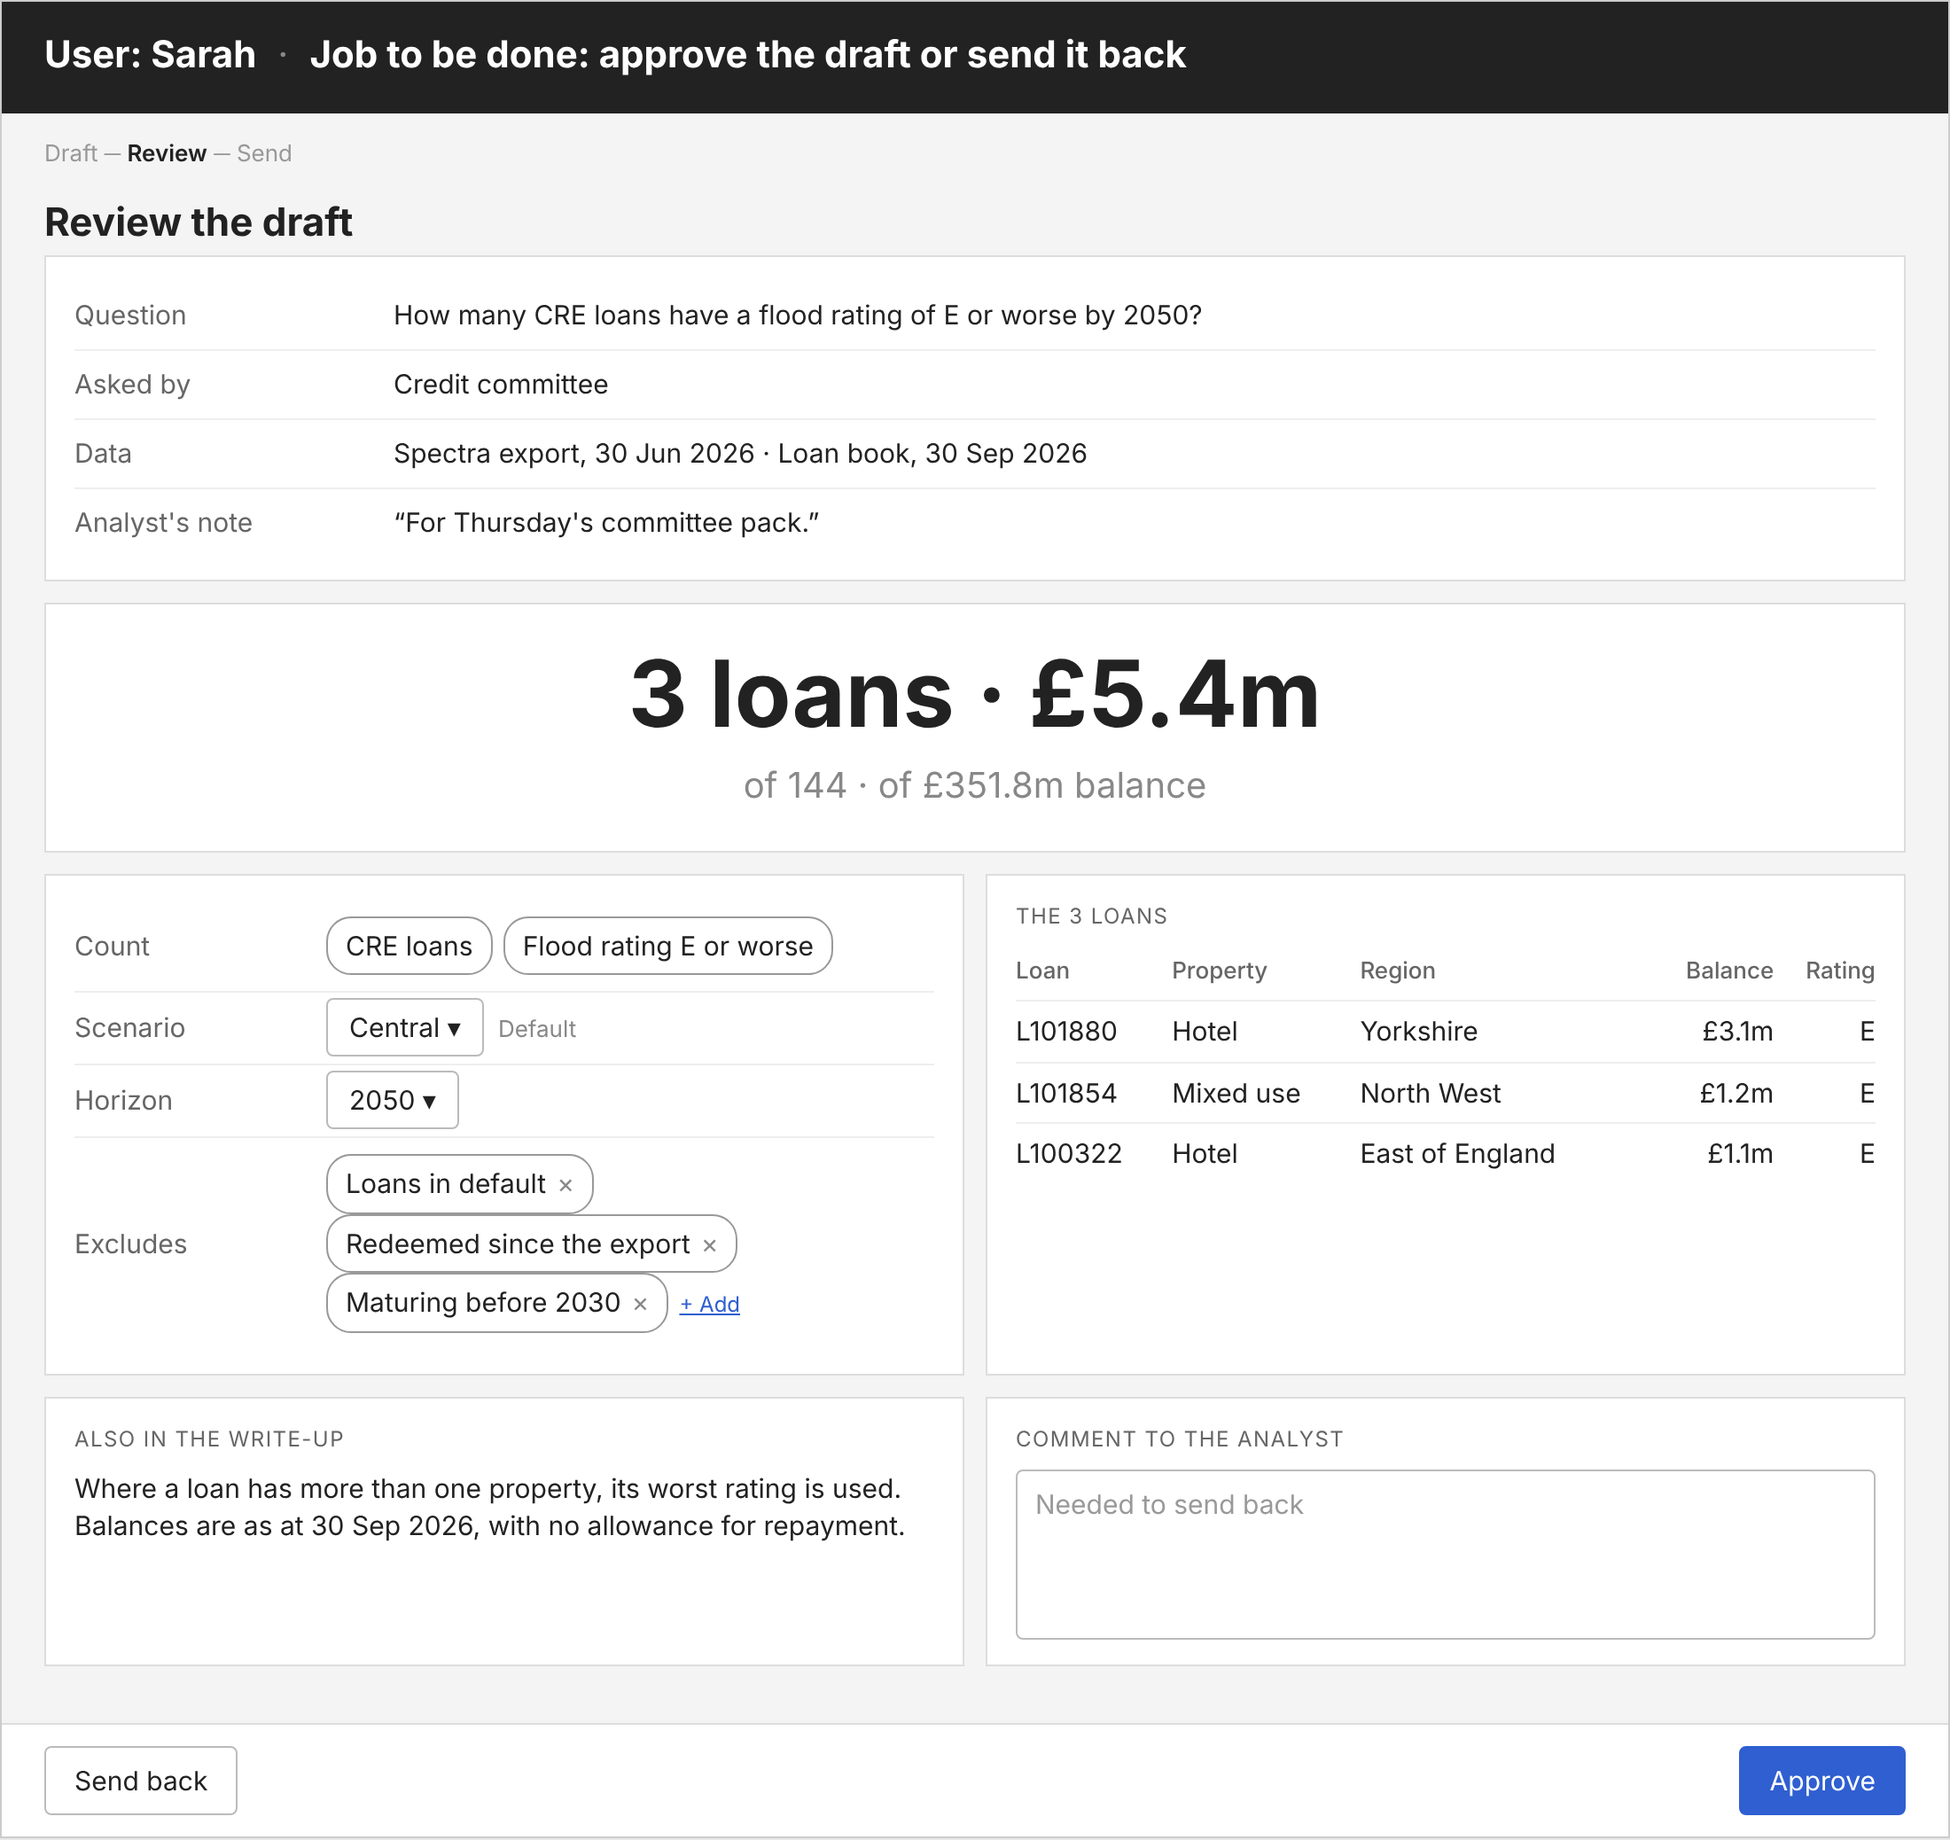
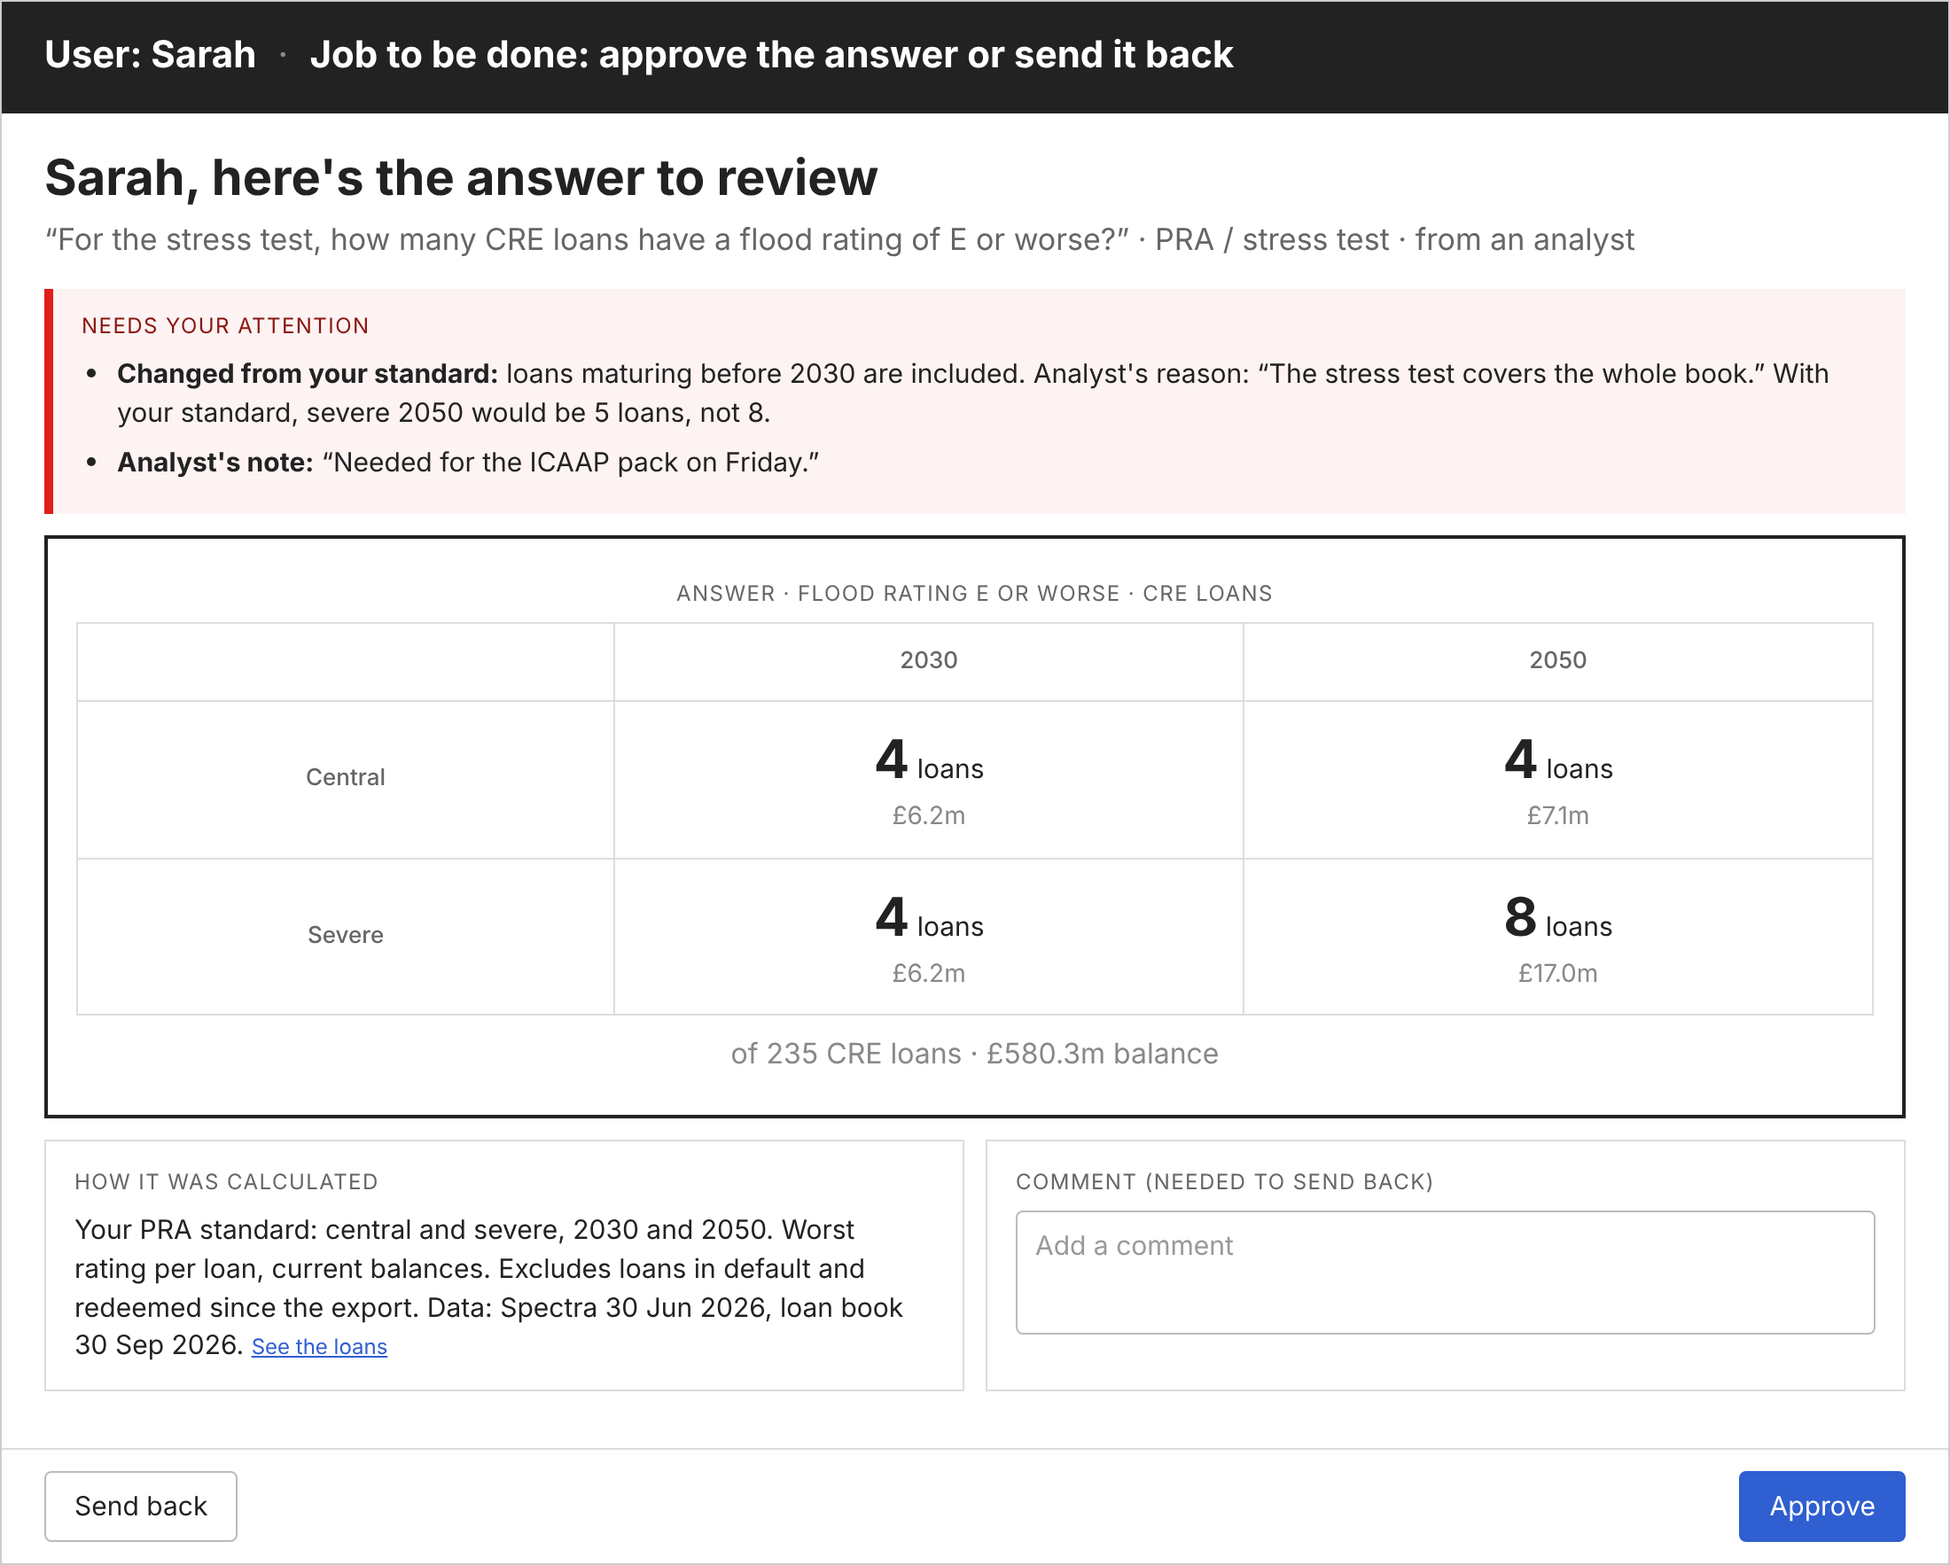
Run 1 solution design: AI-read question, data refresh, exclusions and method on Draft; Sarah's review with attention first and a multi-scenario table
Claude-Session: https://claude.ai/code/session_016JoguXTxkWcj5knaYbAtMZ

diff --git a/runs/run-1/design/solution-design.html b/runs/run-1/design/solution-design.html
@@ -37,6 +37,13 @@ ol{margin:0;padding-left:20px}li{margin:3px 0}
 th{text-align:left;font-weight:500;color:var(--mid);font-size:13px;padding:6px 0}
 .hdr2{background:#222;color:#fff;padding:16px 24px;font-size:21px;font-weight:700}.hdr2 .sep{color:#888;margin:0 12px;font-weight:400}
 .out{text-align:center;padding:22px 16px}.cols2{display:grid;grid-template-columns:1fr 1fr;gap:12px}
+.red{background:#fdecea;border:1px solid #e01e1a;color:#8a1410;padding:10px 14px;margin:8px 0}
+.qx{font-size:14px;color:#555;margin-top:8px}.qx span{display:inline-block;border:1px solid #bbb;border-radius:14px;padding:3px 10px;margin:4px 6px 0 0;background:#fff}
+.src2{font-size:12px;color:#888;display:block;margin-top:3px}
+.hl{background:#e9effc;border-radius:3px;padding:0 2px}
+.sarah{background:#fff;border:2px solid #222}.sarah .hello{font-size:28px;font-weight:700;margin-bottom:12px}
+.att{border-left:5px solid #e01e1a;background:#fdf3f2;padding:12px 16px;margin-bottom:12px}.att li{margin:6px 0}
+.grid2{border-collapse:collapse;margin:0 auto}.grid2 th,.grid2 td{padding:12px 28px;text-align:center;border:1px solid #ddd}.grid2 td b{font-size:30px}.grid2 .s{color:#888;font-size:14px}
 </style></head><body>
 
 <div class="screen" id="draft">
@@ -44,65 +51,50 @@ th{text-align:left;font-weight:500;color:var(--mid);font-size:13px;padding:6px 0
 <div class="steps"><span class="on">Draft</span> ─ Review ─ Send</div>
 <div class="body"><h1>Draft</h1>
 <div class="card">
- <div class="row"><div class="k">Question</div><div class="input" style="grid-column:2/4">How many CRE loans have a flood rating of E or worse by 2050?</div></div>
- <div class="row"><div class="k">Asked by</div><div class="input">Credit committee ▾</div><div></div></div>
- <div class="row"><div class="k">Data</div><div style="grid-column:2/4">Spectra export, 30 Jun 2026 · Loan book, 30 Sep 2026 <span class="src" style="margin-left:8px">Change</span></div></div>
+ <div class="row"><div class="k">Question</div><div style="grid-column:2/4"><div class="input">How many <span class="hl">CRE loans</span> have a <span class="hl">flood rating of E or worse</span> <span class="hl">by 2050</span>?</div>
+  <div class="qx">Try: <span>How many CRE loans have a flood rating of E or worse by 2050?</span><span>What's our total expected climate loss by 2050?</span><span>How much of our 2024 and 2025 lending went into high subsidence areas?</span></div></div></div>
+ <div class="row"><div class="k">Asked by</div><div class="input">Credit committee ▾</div><div class="src">+ Add person</div></div>
+ <div class="row"><div class="k">Data</div><div style="grid-column:2/4">Spectra export, 30 Jun 2026 <span class="src" style="margin:0 18px 0 6px">Refresh from Spectra</span> Loan book, 30 Sep 2026 <span class="src" style="margin-left:6px">Upload new</span></div></div>
 </div>
-<div class="card out">
- <div class="kn" style="font-size:52px">3 loans · £5.4m</div>
- <div class="ks" style="margin-top:8px">of 144 · of £351.8m balance</div>
-</div>
+<div class="card out"><div class="kn" style="font-size:52px">3 loans · £5.4m</div><div class="ks" style="margin-top:8px">of 144 · of £351.8m balance</div></div>
 <div class="cols2">
  <div class="card">
-  <div class="ctl"><div class="k">Count</div><div><span class="chip">CRE loans</span><span class="chip">Flood rating E or worse</span></div></div>
-  <div class="ctl"><div class="k">Scenario</div><div><span class="seg"><span>Low</span><span class="on">Central</span><span>Severe</span></span><span class="mini">Default</span></div></div>
-  <div class="ctl"><div class="k">Horizon</div><div><span class="seg"><span>2030</span><span class="on">2050</span></span></div></div>
-  <div class="ctl"><div class="k">Excludes</div><div><span class="chip">Loans in default<i>×</i></span><span class="chip">Redeemed since the export<i>×</i></span><span class="chip">Maturing before 2030<i>×</i></span><span class="src">+ Add</span></div></div>
+  <div class="ctl"><div class="k">Count</div><div><span class="chip">CRE loans</span><span class="chip">Flood rating E or worse</span><span class="src2">From the question</span></div></div>
+  <div class="ctl"><div class="k">Scenario</div><div><span class="seg"><span>Low</span><span class="on">Central</span><span>Severe</span></span><span class="mini">Sarah's default for committees</span></div></div>
+  <div class="ctl"><div class="k">Horizon</div><div><span class="seg"><span>2030</span><span class="on">2050</span></span><span class="mini">From the question</span></div></div>
+  <div class="ctl"><div class="k">Excludes</div><div><span class="chip">Loans in default<i>×</i></span><span class="chip">Redeemed since the export<i>×</i></span><span class="chip">Maturing before 2030<i>×</i></span><br><span class="input" style="display:inline-block;margin-top:8px;padding:5px 10px;color:#999;min-width:300px">+ Add exclusion, e.g. loans in arrears</span></div></div>
+  <div class="ctl"><div class="k">Method</div><div>Worst rating per loan · current balances <span class="src" style="margin-left:6px">Change</span></div></div>
  </div>
  <div class="card"><div class="lbl">The 3 loans</div><table>
   <tr><th>Loan</th><th>Property</th><th>Region</th><th style="text-align:right">Balance</th><th style="text-align:right">Rating</th></tr>
   <tr><td>L101880</td><td>Hotel</td><td>Yorkshire</td><td class="r">£3.1m</td><td class="r">E</td></tr>
   <tr><td>L101854</td><td>Mixed use</td><td>North West</td><td class="r">£1.2m</td><td class="r">E</td></tr>
-  <tr><td>L100322</td><td>Hotel</td><td>East of England</td><td class="r">£1.1m</td><td class="r">E</td></tr></table></div>
+  <tr><td>L100322</td><td>Hotel</td><td>East of England</td><td class="r">£1.1m</td><td class="r">E</td></tr></table>
+  <div class="lbl" style="margin-top:16px">Not counted</div>
+  <div><span class="src">2 loans</span> are in the Spectra export but not in the loan book.</div>
+  <div><span class="src">1 loan</span> has no flood rating for 2050.</div></div>
 </div>
-<div class="cols2">
- <div class="card"><div class="lbl">Also in the write-up</div>Where a loan has more than one property, its worst rating is used. Balances are as at 30 Sep 2026, with no allowance for repayment.</div>
- <div class="card"><div class="lbl">Note to Sarah</div><div class="input" style="color:#999;min-height:96px">Add a note (optional)</div></div>
-</div>
+<div class="card"><div class="lbl">Note to Sarah (optional)</div><div class="input" style="color:#999">Add a note</div></div>
 </div>
 <div class="foot"><span class="btn">Cancel</span><span class="btn p">Send draft to Sarah →</span></div></div>
 <div class="screen" id="review">
-<div class="hdr2">User: Sarah<span class="sep">·</span>Job to be done: approve the draft or send it back</div>
-<div class="steps">Draft ─ <span class="on">Review</span> ─ Send</div>
-<div class="body"><h1>Review the draft</h1>
-<div class="card">
- <div class="row"><div class="k">Question</div><div style="grid-column:2/4">How many CRE loans have a flood rating of E or worse by 2050?</div></div>
- <div class="row"><div class="k">Asked by</div><div style="grid-column:2/4">Credit committee</div></div>
- <div class="row"><div class="k">Data</div><div style="grid-column:2/4">Spectra export, 30 Jun 2026 · Loan book, 30 Sep 2026</div></div>
- <div class="row"><div class="k">Analyst's note</div><div style="grid-column:2/4">“For Thursday's committee pack.”</div></div>
-</div>
-<div class="card out">
- <div class="kn" style="font-size:52px">3 loans · £5.4m</div>
- <div class="ks" style="margin-top:8px">of 144 · of £351.8m balance</div>
-</div>
+<div class="hdr2">User: Sarah<span class="sep">·</span>Job to be done: approve the answer or send it back</div>
+<div class="body" style="background:#fff">
+<div class="hello" style="font-size:28px;font-weight:700;margin:6px 0 4px">Sarah, here's the answer to review</div>
+<div class="q" style="font-size:17px">“For the stress test, how many CRE loans have a flood rating of E or worse?” · PRA / stress test · from an analyst</div>
+<div class="att"><div class="lbl" style="color:#8a1410">Needs your attention</div><ul style="margin:0;padding-left:20px">
+ <li><b>Changed from your standard:</b> loans maturing before 2030 are included. Analyst's reason: “The stress test covers the whole book.” With your standard, severe 2050 would be 5 loans, not 8.</li>
+ <li><b>Analyst's note:</b> “Needed for the ICAAP pack on Friday.”</li></ul></div>
+<div class="card out" style="border:2px solid #222">
+ <div class="lbl">Answer · flood rating E or worse · CRE loans</div>
+ <table class="grid2"><tr><th></th><th>2030</th><th>2050</th></tr>
+  <tr><th>Central</th><td><b>4</b> loans<div class="s">£6.2m</div></td><td><b>4</b> loans<div class="s">£7.1m</div></td></tr>
+  <tr><th>Severe</th><td><b>4</b> loans<div class="s">£6.2m</div></td><td><b>8</b> loans<div class="s">£17.0m</div></td></tr></table>
+ <div class="ks" style="margin-top:10px;font-size:16px">of 235 CRE loans · £580.3m balance</div></div>
 <div class="cols2">
- <div class="card">
-  <div class="ctl"><div class="k">Count</div><div><span class="chip">CRE loans</span><span class="chip">Flood rating E or worse</span></div></div>
-  <div class="ctl"><div class="k">Scenario</div><div><span class="input" style="padding:6px 12px">Central ▾</span><span class="mini">Default</span></div></div>
-  <div class="ctl"><div class="k">Horizon</div><div><span class="input" style="padding:6px 12px">2050 ▾</span></div></div>
-  <div class="ctl"><div class="k">Excludes</div><div><span class="chip">Loans in default<i>×</i></span><span class="chip">Redeemed since the export<i>×</i></span><span class="chip">Maturing before 2030<i>×</i></span><span class="src">+ Add</span></div></div>
- </div>
- <div class="card"><div class="lbl">The 3 loans</div><table>
-  <tr><th>Loan</th><th>Property</th><th>Region</th><th style="text-align:right">Balance</th><th style="text-align:right">Rating</th></tr>
-  <tr><td>L101880</td><td>Hotel</td><td>Yorkshire</td><td class="r">£3.1m</td><td class="r">E</td></tr>
-  <tr><td>L101854</td><td>Mixed use</td><td>North West</td><td class="r">£1.2m</td><td class="r">E</td></tr>
-  <tr><td>L100322</td><td>Hotel</td><td>East of England</td><td class="r">£1.1m</td><td class="r">E</td></tr></table></div>
-</div>
-<div class="cols2">
- <div class="card"><div class="lbl">Also in the write-up</div>Where a loan has more than one property, its worst rating is used. Balances are as at 30 Sep 2026, with no allowance for repayment.</div>
- <div class="card"><div class="lbl">Comment to the analyst</div><div class="input" style="color:#999;min-height:96px">Needed to send back</div></div>
-</div>
-</div>
+ <div class="card"><div class="lbl">How it was calculated</div>Your PRA standard: central and severe, 2030 and 2050. Worst rating per loan, current balances. Excludes loans in default and redeemed since the export. Data: Spectra 30 Jun 2026, loan book 30 Sep 2026. <span class="src">See the loans</span></div>
+ <div class="card"><div class="lbl">Comment (needed to send back)</div><div class="input" style="color:#999;min-height:70px">Add a comment</div></div>
+</div></div>
 <div class="foot"><span class="btn">Send back</span><span class="btn p">Approve</span></div></div>
 <div class="screen" id="send">
 <div class="hdr2">User: Analyst<span class="sep">·</span>Job to be done: send the approved answer to whoever asked</div>

diff --git a/runs/run-1/solution-design.md b/runs/run-1/solution-design.md
@@ -20,21 +20,21 @@ Askers (CRO, committees, pricing, treasury, IR) never touch it: they email the q
 ![Draft](design/draft.png)
 
 - **Removes:** choosing scenario, horizon and loans by hand, the write-up, and "what about severe?" restarting it
-- **Inputs:** question, asked by and data. Scenario, horizon and exclusions start on Sarah's standard for that asker, so the analyst only confirms; the horizon follows the question. Note to Sarah is optional
-- **Edge cases, said where they happen:**
-  - No year in the question → horizon starts on the asker's default, marked "Default"
-  - A year not in the data ("present-day") → "This data has 2030 and 2050. Use 2030?"
-  - Horizon or data doesn't match the question → shown on this screen, so the analyst fixes it before Sarah sees it
-  - Nothing matches → "0 loans" with the controls still visible to widen it
-  - Loss to the bank → "Can't calculate loss to the bank from this data. Show damage to properties instead?"
-- **Ends in:** Send draft to Sarah. The number updates as the controls change
+- **Inputs:** the question, typed loosely; AI reads it into choices, highlights the words it used and fills the rest from Sarah's defaults. AI never produces a number. Real example questions to start from. Asked by, with "+ Add person". Data: refresh the Spectra export, or upload a new loan book
+- **Choices:** scenario, horizon, exclusions (common ones, or typed and read by AI) and method. Each shows its source; a change from Sarah's defaults is flagged for her
+- **Not counted, in plain words, linked to the list:** loans in the Spectra export but not in the loan book; loans with no rating for that hazard and year
+- **Edge cases:** warnings in red, where they happen: year doesn't match the question, stale data, a year not in the data, nothing matches, loss to the bank (refused, with the closest alternative)
+- **Ends in:** Send draft to Sarah
 
 ## 2. Review the draft
 ![Review](design/review.png)
 
+Shown with the stress-test version of the question, which needs more than one scenario and year.
 - **Removes:** half a day of checking someone else's numbers
-- **Inputs:** scenario, year and leave-out can be changed; a comment is required to send back
-- **Ends in:** Approve, or Send back to the analyst with the comment. Nothing goes out without her approval
+- **Looks different from the draft:** addressed to Sarah, with what needs her attention first: changes from her standard (with their effect on the answer), flags and the analyst's note
+- **More than one scenario or year:** one answer with a small table (central and severe × 2030 and 2050), reviewed once and sent as one email
+- **Inputs:** a comment, required to send back
+- **Ends in:** Approve, or Send back. Nothing goes out without her approval
 
 ## 3. Send the answer
 ![Send](design/send.png)
